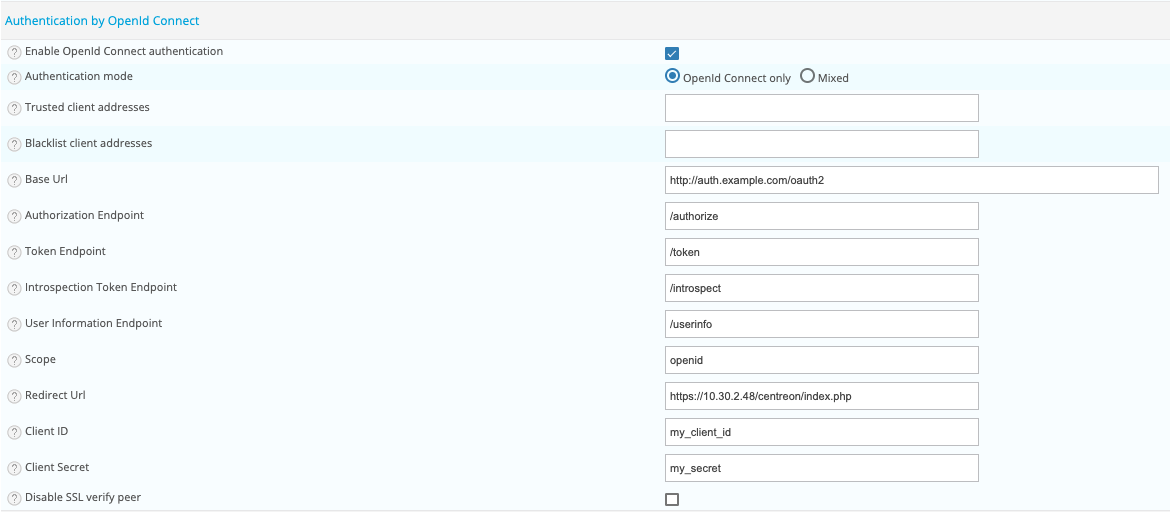
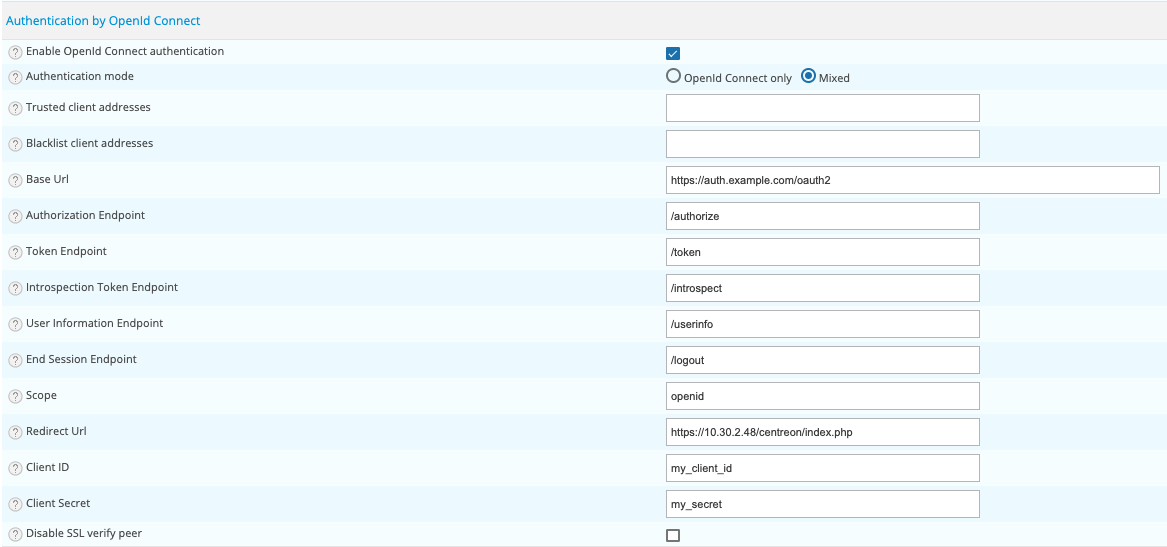
enh(openind): add logout endpoint

diff --git a/fr/administration/parameters/centreon-ui.md b/fr/administration/parameters/centreon-ui.md
@@ -117,6 +117,7 @@ avec le flux de code d'autorisation (uthorization code) de type d'autorisation (
 - Le champ **Token Endpoint** définit le point de terminaison du jeton, par exemple `/token` (obligatoire).
 - Le champ **Introspection Token Endpoint** définit le point de terminaison du jeton d'introspection, par exemple `/introspect` (obligatoire).
 - Le champ **User Information Endpoint** définit le point de terminaison des informations utilisateur, par exemple `/userinfo`.
+- Le champ **End Session Endpoint** définit le point de terminaison de déconnexion, par exemple `/logout`.
 - Le champ **Scope** définit la portée de l'IdP, par exemple «openid». Portée séparée par espace.
 - La case **Redirect Url** définit l'URL de redirection après connexion pour accéder à votre serveur Centreon, par exemple
   `htt://192.168.0.1/centreon/index.php`.

diff --git a/en/administration/parameters/centreon-ui.md b/en/administration/parameters/centreon-ui.md
@@ -110,6 +110,7 @@ the grant type authorization code flow.
 - **Token Endpoint** field defines the token endpoint, for example `/token`(mandatory).
 - **Introspection Token Endpoint** field defines the introspection token endpoint, for example `/introspect` (mandatory).
 - **User Information Endpoint** field defines the user information endpoint, for example `/userinfo`.
+- **End Session Endpoint** field defines the logout endpoint, for example `/logout`.
 - **Scope** field defines the scope of the IdP, for example `openid`. Separate scope by space.
 - **Redirect Url** field defines the redirect URL after login to access to your Centreon server, for example
   `htt://192.168.0.1/centreon/index.php`.
